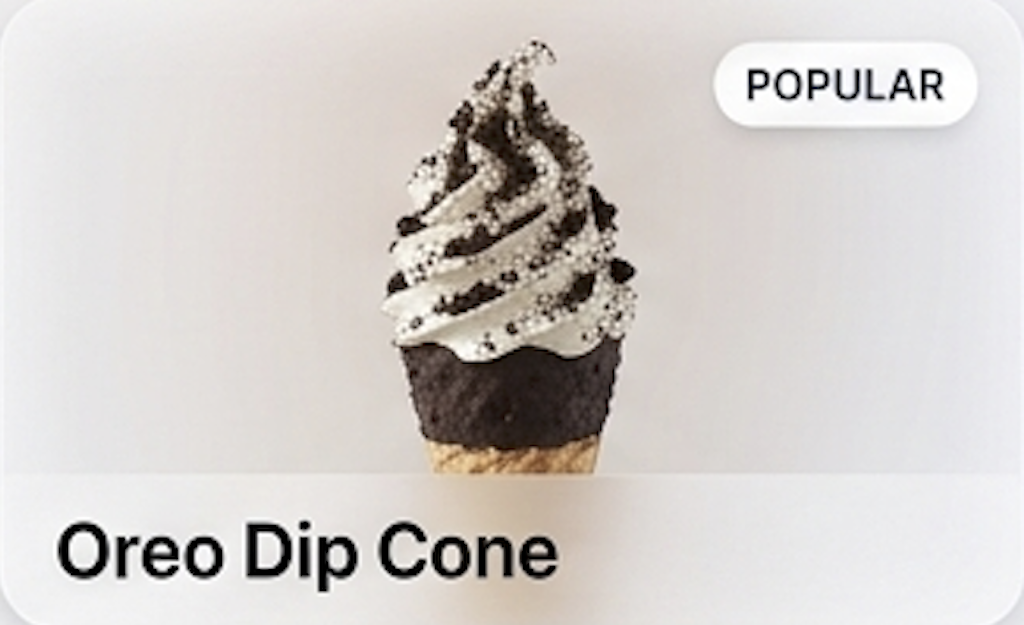
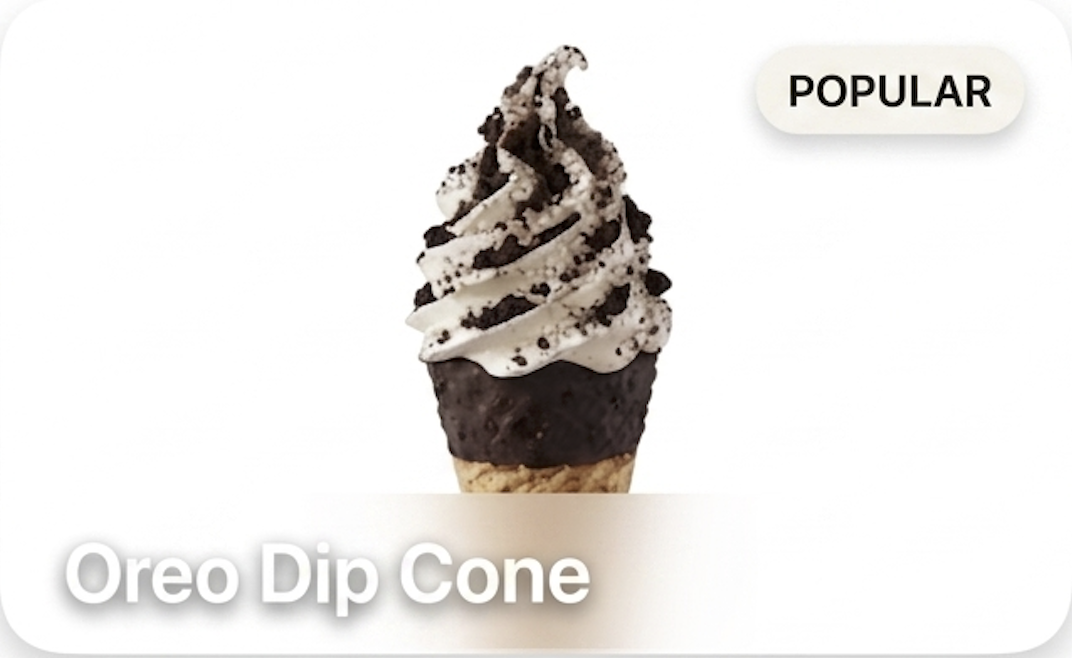
update

diff --git a/src/pages/Home.css b/src/pages/Home.css
@@ -1,3 +1,18 @@
+/* FEATURES SECTION */
+.features-section,
+.features-section h2,
+.features-section h3,
+.features-section p {
+  color: #ffffff;
+}
+
+/* TESTIMONIALS SECTION */
+.testimonials-section,
+.testimonials-section h2,
+.testimonials-section h4,
+.testimonials-section p {
+  color: #ffffff;
+}
 .home-page {
   position: relative;
   overflow-x: hidden;

diff --git a/src/pages/Home.jsx b/src/pages/Home.jsx
@@ -3,8 +3,8 @@ import { Link } from 'react-router-dom'
 import './Home.css'
 import pic1 from '../assets/con.png'
 import pic2 from '../assets/wflc.png'
-import pic3 from '../assets/iced.png'
-import pic4 from '../assets/mlks2.png'
+import pic3 from '../assets/snd.png'
+import pic4 from '../assets/shic.png'
 
 const Home = () => {
   const heroRef = useRef(null)

diff --git a/src/pages/Menu.jsx b/src/pages/Menu.jsx
@@ -36,7 +36,7 @@ const Menu = () => {
     { id: 'drinks', label: 'Ice Drinks & Floats', icon: '🥤', image: pic5 },
     { id: 'smoothies', label: 'Smoothies', icon: '🥤', image: pic6 },
     { id: 'milks', label: 'Milkshakes', icon: '🥛', image: pic7 },
-    { id: 'snowballs', label: 'Snowballs & Ice', icon: '❄️', image: pic8 },
+    { id: 'snowballs', label: 'Snowballs & Shaved Ice', icon: '❄️', image: pic8 },
     { id: 'slushies', label: 'Slushies', icon: '🧊', image: pic9 },
     { id: 'top', label: 'Topping', icon: '✨' },
   ]
@@ -94,7 +94,7 @@ const Menu = () => {
       )}
 
       {/* CTA BUTTON */}
-      {(activeCategory === 'wafflecones' || activeCategory === 'sundaes') && (
+      {(activeCategory === 'wafflecones' || activeCategory === 'sundaes' || activeCategory === 'sundaes') && (
         <div className="topping-cta">
           <button
             className="topping-btn"

diff --git a/src/pages/About.css b/src/pages/About.css
@@ -126,7 +126,8 @@
 }
 
 .mascot-card h3 {
-  font-family: var(--font-display);
+  color: white;
+  font-family: var(--white);
   font-size: 1.4rem;
   color: var(--yellow);
   margin-bottom: 12px;